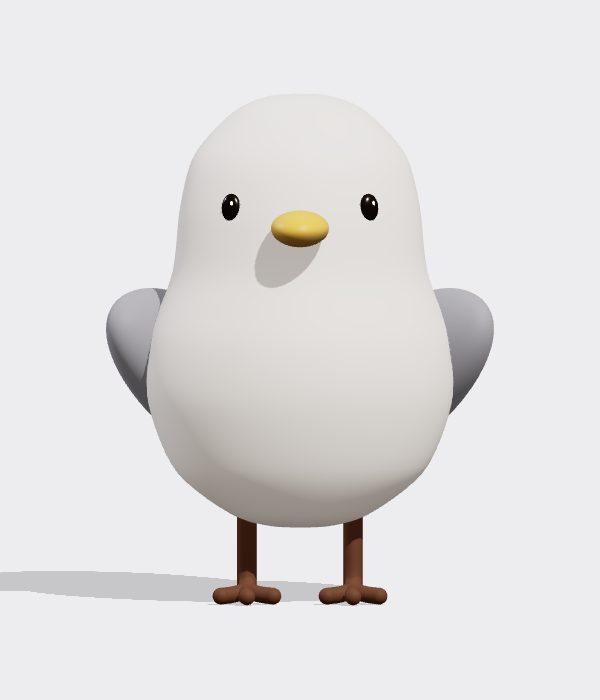
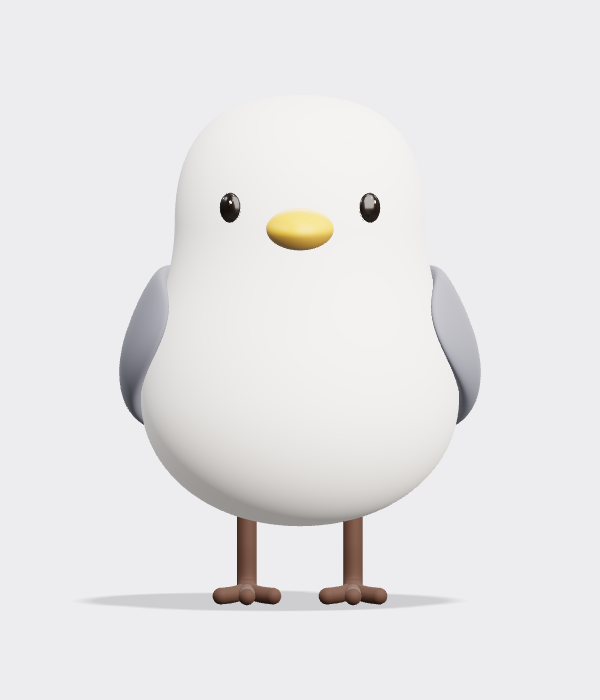
Refine bird silhouette, wrapped wings and satin shading [skip ci]

diff --git a/src/room/art/bird.ts b/src/room/art/bird.ts
@@ -49,14 +49,32 @@ export function createBird() {
       sheenRoughness: 0.8,
       sheenColor: new THREE.Color(color),
     });
+    if (roughness > 0.5) {
+      // A broad-light diffuse response keeps the little satin sculpture soft
+      // under the room's directional sun. Leave glossy eyes and bill unchanged.
+      result.onBeforeCompile = (shader) => {
+        shader.fragmentShader = shader.fragmentShader.replace(
+          "#include <lights_physical_pars_fragment>",
+          THREE.ShaderChunk.lights_physical_pars_fragment.replace(
+            "reflectedLight.directDiffuse += irradiance * BRDF_Lambert",
+            `float broadDot = dot( geometryNormal, directLight.direction );
+             float broadWidth = 0.45;
+             float broadLambert = broadDot > broadWidth ? broadDot :
+               pow( max( broadDot + broadWidth, 0.0 ), 2.0 ) / ( 4.0 * broadWidth );
+             reflectedLight.directDiffuse += ( irradiance + ( broadLambert - dotNL ) * directLight.color ) * BRDF_Lambert`,
+          ),
+        );
+      };
+      result.customProgramCacheKey = () => "bird-satin-broad-light-v1";
+    }
     materials.add(result);
     return result;
   };
   const white = satin("#f4f1ee", 0.66);
   const wingMaterial = satin("#ffffff", 0.62);
   wingMaterial.vertexColors = true;
-  const tailMaterial = satin("#575c68", 0.64);
-  const feetMaterial = satin("#654332", 0.66);
+  const tailMaterial = satin("#484e5a", 0.64);
+  const feetMaterial = satin("#543b30", 0.66);
   const beakMaterial = satin("#ffffff", 0.38);
   beakMaterial.vertexColors = true;
   const eyeMaterial = satin("#211a16", 0.14);
@@ -95,62 +113,51 @@ export function createBird() {
     return result;
   }
 
-  // A single continuous pear, with a full lower breast and a narrow soft crown.
-  // The head is not an intersecting sphere: there is no neck seam in any view.
-  const profile = new THREE.CatmullRomCurve3(
-    [
-      [0, 0.069, 0],
-      [0.028, 0.069, 0.025],
-      [0.064, 0.081, 0.058],
-      [0.111, 0.119, 0.093],
-      [0.135, 0.181, 0.117],
-      [0.133, 0.236, 0.119],
-      [0.113, 0.294, 0.104],
-      [0.106, 0.353, 0.098],
-      [0.093, 0.399, 0.086],
-      [0.059, 0.436, 0.056],
-      [0.027, 0.45, 0.025],
-      [0, 0.45, 0],
-    ].map(([x, y, z]) => new THREE.Vector3(x, y, z)),
-    false,
-    "catmullrom",
-    0.45,
-  );
-  const bodyGeometry = new THREE.SphereGeometry(1, 48, 64);
+  // Three tangent-continuous Bezier arcs: round belly, quiet upright cheeks,
+  // and a domed crown. Sampling the outline avoids pinches between control rings.
+  const outline = new THREE.CurvePath<THREE.Vector2>();
+  const arc = (points: number[][]) => outline.add(new THREE.CubicBezierCurve(
+    ...points.map(([x, y]) => new THREE.Vector2(x, y)) as [THREE.Vector2, THREE.Vector2, THREE.Vector2, THREE.Vector2],
+  ));
+  arc([[0, 0.069], [0.080, 0.069], [0.141, 0.117], [0.141, 0.183]]);
+  arc([[0.141, 0.183], [0.141, 0.242], [0.111, 0.277], [0.111, 0.337]]);
+  arc([[0.111, 0.337], [0.111, 0.408], [0.081, 0.451], [0, 0.451]]);
+  const bodyProfile = outline.getPoints(32);
+  const bodyGeometry = new THREE.LatheGeometry(bodyProfile, 64);
   const bodyPositions = bodyGeometry.getAttribute("position");
+  // Slightly fuller breast than crown, continuous depth in front and behind.
   for (let i = 0; i < bodyPositions.count; i++) {
-    const unitY = THREE.MathUtils.clamp(bodyPositions.getY(i), -1, 1);
-    const t = 1 - Math.acos(unitY) / Math.PI;
-    const point = profile.getPoint(t);
-    const azimuth = Math.atan2(bodyPositions.getZ(i), bodyPositions.getX(i));
-    const centreZ = 0.008 - Math.sin(t * Math.PI) * 0.008;
-    bodyPositions.setXYZ(
-      i,
-      Math.cos(azimuth) * point.x,
-      point.y,
-      centreZ + Math.sin(azimuth) * point.z,
-    );
+    bodyPositions.setZ(i, bodyPositions.getZ(i) * 0.94);
   }
   mesh("bird-continuous-white-pear", smoothSculpt(bodyGeometry), white);
+  const bodyRadiusAt = (height: number) => {
+    const index = bodyProfile.findIndex((point) => point.y >= height);
+    if (index <= 0) return bodyProfile[Math.max(0, index)].x;
+    const previous = bodyProfile[index - 1], next = bodyProfile[index];
+    return THREE.MathUtils.lerp(previous.x, next.x, (height - previous.y) / (next.y - previous.y));
+  };
 
-  // Folded teardrop wings: the shoulder sits forward, the dark tip folds back.
-  // Colour is on the sculpt itself, so there are no floating feather overlays.
-  const wingGeometry = new THREE.SphereGeometry(1, 48, 40);
+  // A folded wing wraps around the pear, rather than sitting beside it as an
+  // ellipsoid. The wide forward shoulder sweeps toward the central rear tail.
+  const wingGeometry = new THREE.SphereGeometry(1, 64, 48);
   const wingPositions = wingGeometry.getAttribute("position");
   const wingColors: number[] = [];
-  const shoulderColor = new THREE.Color("#92949e");
-  const featherColor = new THREE.Color("#505460");
+  const shoulderColor = new THREE.Color("#787b87");
+  const featherColor = new THREE.Color("#444956");
   const color = new THREE.Color();
   for (let i = 0; i < wingPositions.count; i++) {
-    const x = wingPositions.getX(i);
-    const y = wingPositions.getY(i);
-    const z = wingPositions.getZ(i);
+    const x = wingPositions.getX(i), y = wingPositions.getY(i), z = wingPositions.getZ(i);
     const t = (1 - y) / 2;
-    const taper = 1 - t * 0.4;
-    const depth = z * 0.1 * taper;
-    wingPositions.setXYZ(i, x * 0.035, y * 0.074, depth + t * 0.085);
-    // Oblique folded-feather boundary, softly transitioning over a narrow lip.
-    const dark = THREE.MathUtils.smoothstep(t + z * 0.18, 0.62, 0.75);
+    const height = 0.298 - t * 0.158;
+    const spread = z < 0 ? 1.14 : 0.65;
+    const angle = 0.30 + t * 0.63 + z * spread * (1 - t * 0.24);
+    const radius = bodyRadiusAt(height);
+    wingPositions.setXYZ(i,
+      Math.cos(angle) * (radius + 0.007) + x * 0.018 - 0.11,
+      height - 0.285,
+      Math.sin(angle) * (radius * 0.94 + 0.012),
+    );
+    const dark = THREE.MathUtils.smoothstep(t + z * 0.35, 0.76, 0.82);
     color.copy(shoulderColor).lerp(featherColor, dark);
     wingColors.push(color.r, color.g, color.b);
   }
@@ -159,53 +166,54 @@ export function createBird() {
   const wings = [-1, 1].map((side) => {
     const root = new THREE.Group();
     root.name = side < 0 ? "bird-left-wing-pivot" : "bird-right-wing-pivot";
-    root.position.set(side * 0.13, 0.205, 0.018);
+    root.position.set(side * 0.11, 0.285, 0);
     sculpture.add(root);
     const wing = mesh("bird-folded-wing", smoothWingGeometry, wingMaterial, root);
-    wing.rotation.z = side * -0.12;
-    wing.rotation.y = side * -0.58;
+    wing.scale.x = side;
     return root;
   });
 
   const tail = new THREE.Group();
   tail.name = "bird-tail-pivot";
-  tail.position.set(0, 0.158, 0.103);
+  tail.position.set(0, 0.156, 0.103);
   sculpture.add(tail);
-  const tailShape = oval("bird-short-tail", [0.035, 0.014, 0.05], [0, 0, 0.032], tailMaterial, tail);
+  const tailShape = oval("bird-short-tail", [0.034, 0.019, 0.041], [0, 0, 0.028], tailMaterial, tail);
   tailShape.rotation.x = 0.15;
 
   const eyes = [-1, 1].map((side) => {
     const root = new THREE.Group();
     root.name = side < 0 ? "bird-left-eye" : "bird-right-eye";
-    root.position.set(side * 0.06, 0.355, -0.076);
+    root.position.set(side * 0.061, 0.356, -0.084);
     root.rotation.y = side * -0.49;
     root.rotation.x = -0.02;
     sculpture.add(root);
-    oval("bird-glossy-eye", [0.0096, 0.0131, 0.0061], [0, 0, -0.001], eyeMaterial, root);
+    oval("bird-glossy-eye", [0.0105, 0.0135, 0.0064], [0, 0, -0.001], eyeMaterial, root);
     const glint = oval("bird-eye-small-softbox", [0.0016, 0.0023, 0.0006], [-0.0025, 0.0049, -0.0062], glintMaterial, root);
     glint.castShadow = false;
     glint.receiveShadow = false;
     return root;
   });
 
-  const beakGeometry = remember(new THREE.SphereGeometry(1, 32, 20));
+  // A short broad-rooted bill, with its root sunk into the face and a rounded
+  // tip. Its lower half is warmer and darker, like the reference's soft bill.
+  const beakGeometry = new THREE.SphereGeometry(1, 48, 32);
   const beakPositions = beakGeometry.getAttribute("position");
   const beakColors: number[] = [];
-  const upperBeak = new THREE.Color("#e9ba2c");
-  const lowerBeak = new THREE.Color("#a37a27");
+  const upperBeak = new THREE.Color("#e7b219");
+  const lowerBeak = new THREE.Color("#ac832b");
   for (let i = 0; i < beakPositions.count; i++) {
-    const x = beakPositions.getX(i);
-    const y = beakPositions.getY(i);
-    const z = beakPositions.getZ(i);
+    const x = beakPositions.getX(i), y = beakPositions.getY(i), z = beakPositions.getZ(i);
     const front = (1 - z) / 2;
-    // The broad root narrows into a rounded, gently lowered bill, not a cone.
-    beakPositions.setXYZ(i, x * 0.029 * (1 - front * 0.24), y * 0.016 - front * 0.003, z * 0.031);
-    color.copy(lowerBeak).lerp(upperBeak, THREE.MathUtils.smoothstep(y, -0.36, 0.25));
+    beakPositions.setXYZ(i,
+      x * 0.036 * (1 - front * 0.38),
+      y * 0.022 * (1 - front * 0.35) - front * 0.003,
+      z * 0.030,
+    );
+    color.copy(lowerBeak).lerp(upperBeak, THREE.MathUtils.smoothstep(y, -0.32, 0.19));
     beakColors.push(color.r, color.g, color.b);
   }
   beakGeometry.setAttribute("color", new THREE.Float32BufferAttribute(beakColors, 3));
-  beakGeometry.computeVertexNormals();
-  mesh("bird-rounded-yellow-bill", beakGeometry, beakMaterial).position.set(0, 0.341, -0.121);
+  mesh("bird-rounded-yellow-bill", smoothSculpt(beakGeometry), beakMaterial).position.set(0, 0.340, -0.120);
 
   const feet = [-1, 1].map((side) => {
     const root = new THREE.Group();
@@ -215,7 +223,7 @@ export function createBird() {
     const pieces: THREE.BufferGeometry[] = [];
     const tube = (points: number[][], radius: number) => {
       const curve = new THREE.CatmullRomCurve3(points.map(([x, y, z]) => new THREE.Vector3(x, y, z)));
-      pieces.push(new THREE.TubeGeometry(curve, 9, radius, 8, false));
+      pieces.push(new THREE.TubeGeometry(curve, 12, radius, 12, false));
     };
     tube([[0, 0.089, 0.002], [0, 0.054, 0.001], [0, 0.018, 0], [0, 0.01, -0.01]], 0.0087);
     for (const splay of [-1, 0, 1]) {

diff --git a/scripts/bird-study.html b/scripts/bird-study.html
@@ -10,6 +10,8 @@
     <script type="module">
       // Development-only, using exactly the NPC model rendered in the room.
       import * as THREE from "three";
+      import { RectAreaLightUniformsLib } from "three/addons/lights/RectAreaLightUniformsLib.js";
+      import { RoomEnvironment } from "three/addons/environments/RoomEnvironment.js";
       import { createBird } from "../src/room/art/bird.ts";
       const params = new URLSearchParams(location.search);
       const scene = new THREE.Scene();
@@ -20,21 +22,35 @@
       renderer.outputColorSpace = THREE.SRGBColorSpace;
       renderer.toneMapping = THREE.ACESFilmicToneMapping;
       renderer.shadowMap.enabled = true;
-      renderer.shadowMap.type = THREE.PCFSoftShadowMap;
+      renderer.shadowMap.type = THREE.VSMShadowMap;
       document.body.append(renderer.domElement);
-      scene.add(new THREE.HemisphereLight("#fffaf6", "#a39c96", 2));
-      const light = new THREE.DirectionalLight("#fff8f0", 2.5);
-      light.position.set(-1, 2, -2);
+      const pmrem = new THREE.PMREMGenerator(renderer);
+      const room = new RoomEnvironment();
+      const environment = pmrem.fromScene(room, 0.04);
+      scene.environment = environment.texture;
+      scene.environmentIntensity = 0.35;
+      room.dispose();
+      pmrem.dispose();
+      scene.add(new THREE.HemisphereLight("#fffaf6", "#a39c96", 0.55));
+      const light = new THREE.DirectionalLight("#fff8f0", 0.45);
+      light.position.set(-0.4, 3, -0.4);
       light.castShadow = true;
       light.shadow.mapSize.set(2048, 2048);
       Object.assign(light.shadow.camera, {left:-0.6,right:0.6,top:0.8,bottom:-0.2,near:0.1,far:8});
+      light.shadow.radius = 32;
+      light.shadow.blurSamples = 16;
       light.shadow.bias = -0.0001;
       light.shadow.normalBias = 0.0005;
       scene.add(light);
-      const fill = new THREE.DirectionalLight("#e6ebff", 0.6);
+      RectAreaLightUniformsLib.init();
+      const softbox = new THREE.RectAreaLight("#fff8f2", 5, 1.8, 1.8);
+      softbox.position.set(-0.6, 1.0, -1.0);
+      softbox.lookAt(0, 0.22, 0);
+      scene.add(softbox);
+      const fill = new THREE.DirectionalLight("#e6ebff", 0.3);
       fill.position.set(2, 1, 1);
       scene.add(fill);
-      const floor = new THREE.Mesh(new THREE.PlaneGeometry(20,20), new THREE.ShadowMaterial({opacity:0.16}));
+      const floor = new THREE.Mesh(new THREE.PlaneGeometry(20,20), new THREE.ShadowMaterial({opacity:0.13}));
       floor.rotation.x = -Math.PI / 2;
       floor.receiveShadow = true;
       scene.add(floor);
@@ -51,7 +67,7 @@
       renderer.render(scene,camera);
       document.body.dataset.ready = "true";
       window.birdStudy = {renderer,camera,scene,bird};
-      addEventListener("pagehide",()=>{bird.dispose();renderer.dispose()});
+      addEventListener("pagehide",()=>{bird.dispose();environment.dispose();renderer.dispose()});
     </script>
   </body>
 </html>

diff --git a/docs/ROOM_BIRD.md b/docs/ROOM_BIRD.md
@@ -13,6 +13,20 @@
 
 [部屋・PC](screenshots/bird-room-desktop.png) ／ [部屋・スマホ](screenshots/bird-room-mobile.png)
 
+## 今回の外観調整（2026-10-18）
+
+基準コミット `04efcdb` と所有者の正面・横・背面画像を比較し、4方向の描画を繰り返して調整しました。
+
+- **翼**：横に置いた楕円体から、胴の曲面へ巻き付く形に再構成。正面の張り出しを抑え、横では丸い前肩から後ろへ広がり、背面では両翼の間に白い背中が残るよう調整しました。上部の明るいグレーと、斜めに切り替わる暗い羽先も修正。
+- **白い体**：頭・腹・底を接線が連続する曲線でつなぎ、下腹の膨らみと丸い底を調整。首の継ぎ目はありません。
+- **顔**：目をわずかに横へふくらませ、新しい胴の表面に配置。くちばしは幅と根元の厚みを増やし、前端へ丸く細まる形にしました。
+- **尾・足**：尾を短く厚くし、足の円周と指のカーブを滑らかに。グレー・黄・茶の色も比較して調整しました。
+- **表面**：マットな体・翼・尾・足に、小鳥専用の柔らかな拡散反射を適用。部屋の日光でも硬い明暗境界が出にくくしています。目とくちばしの光沢反射は従来の計算です。
+
+[変更前後の三方向](screenshots/bird-before-after.png) は、上段が `04efcdb`、下段が今回のモデルです。両方を同じカメラ・同じ柔らかいスタジオ照明で撮り直しました。比較用照明の変更は開発ページだけに適用しています。
+
+実際の部屋の照明でも [正面](screenshots/bird-room-close-front.png)・[横](screenshots/bird-room-close-side.png)・[後ろ](screenshots/bird-room-close-back.png) を近接撮影しました。これは造形確認用のカメラであり、プレイ中のカメラ設定には追加していません。
+
 ## 動きと当たり判定
 
 `src/room/birdMotion.ts` が床の空いた場所へ行き先を選びます。通常は約25〜48cmずつ、高さ約10〜13.5cmの小さなジャンプで進み、間に短い休憩や長めの立ち止まりを挟みます。家具の際では短い進路も探します。壁や有効な家具を横切る経路は選びません。
@@ -25,9 +39,15 @@
 
 ## 検証
 
-- 小鳥に絞った単体テスト7件：家具・薄い障害物・壁・人との衝突、120秒の移動、安全な出現、上にプレイヤーがいる状態、動き抑制、2／15／60FPSの経路一致。
-- 小鳥のブラウザテスト2件：ジャンプ移動、メニュー中の停止と再開、すり抜け防止、パンチ無効。
-- 固定照明4方向と実際の部屋のPC／スマホ表示。ページ例外なし。
-- 11メッシュ、25,552三角形、形状6・材質7。形状とアニメーションの値が有限であること、二重disposeでもリソース解放が1回であることを確認。
+今回の外観修正では、次だけを確認しました。
 
-造形は `src/room/art/bird.ts`、表示・当たり判定への接続は既存の `roomScene.ts` と `roomEngine.ts`。比較用の `/scripts/bird-study.html?view=front` は開発専用で、本番ビルドには含みません。
+- 固定照明の4方向を繰り返し比較。最終版を正面・真横・背面・斜めで撮影。
+- 部屋の照明の近接3方向と、本番ビルドのPC／390px幅表示を確認。ページ例外・シェーダーエラーなし。
+- 静的監査1回：全頂点属性・行列が有限、インデックスと法線が正常。二重disposeでも各リソースの破棄は1回。
+- 11メッシュ、39,536三角形、形状6・材質7。静止寸法は約32.0×45.0×32.2cmで、既存の幅42cmの当たり判定内。
+- `npm run build` 成功：データ検証・ライセンス生成・TypeScript・Viteビルド。部屋JSは93.43KB（gzip 37.24KB）。
+- 公開ワークフローは `validation: visual` を使用し、既存の部屋描画テスト1件と本番ビルドに限定。
+
+移動・ジャンプ・パンチなどの操作コードは変更していません。追加時に成功した小鳥単体テスト7件・ブラウザテスト2件は今回再実行していません。
+
+造形は `src/room/art/bird.ts`、表示・当たり判定への接続は既存の `roomScene.ts` と `roomEngine.ts`。比較用の `/scripts/bird-study.html?view=front` は開発専用で、本番ビルドには含みません。外部モデル・画像・依存パッケージの追加はありません。

diff --git a/docs/VALIDATION.md b/docs/VALIDATION.md
@@ -1,5 +1,11 @@
 # 実装検証
 
+## 小鳥の外観調整（2026-10-18）
+
+`04efcdb` を基準に、翼の回り込み・白い体・目とくちばし・尾と足・マットな陰影を修正しました。正面・横・背面・斜めの描画を繰り返し比較し、最後に部屋の照明の近接3方向と、本番ビルドのPC／390px幅でも確認しました。ページ例外・シェーダーエラーなし。変更前後は同じ照明で撮影しています。
+
+静的監査1回と `npm run build` が成功。操作コードの変更はなく、操作テストの再実行は省いています。公開時は `validation: visual` で部屋描画1件とビルドに絞ります。[外観の詳細と画像](ROOM_BIRD.md#今回の外観調整2026-10-18)。以下は前回までの記録です。
+
 ## 小鳥NPCの追加（2026-10-18）
 
 提供画像を参考に小さな小鳥を追加しました。造形・移動・衝突・パンチ無効の確認と画像は [ROOM_BIRD.md](ROOM_BIRD.md) にまとめています。新規の小鳥単体テスト7件、ブラウザテスト2件が成功。外部モデルや画像は追加していません。公開ワークフローでは小鳥と関連する当たり判定、部屋描画、本番ビルドに検証を絞ります。以下は過去の実績登録・キャラクター調整の記録です。
